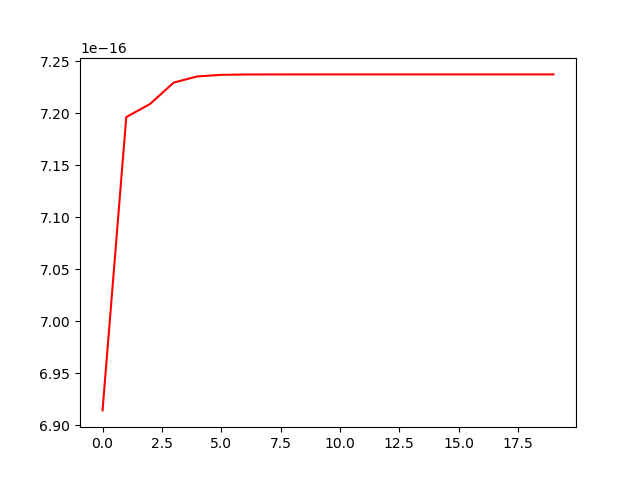
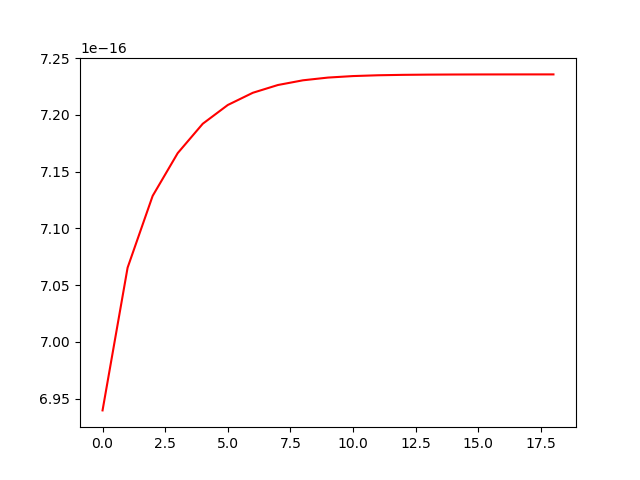
looks ok!

diff --git a/Baumwelchcont.py b/Baumwelchcont.py
@@ -182,9 +182,10 @@ def computelikelihoodbasedonseq(seq,obsmtrx,observations):
     prob = 0
     eps = 2.22044604925e-16
     for t in range(len(seq)):
-        probeps = abs((0.01  * obsmtrx[int(seq[t]),1]))
+        probeps = abs((0.0001  * obsmtrx[int(seq[t]),1]))
         distr = stats.norm(obsmtrx[int(seq[t]),0], obsmtrx[int(seq[t]),1])
         obsprob = distr.cdf(observations[t] + probeps) - distr.cdf(observations[t]- probeps) 
+        print obsprob
         prob += np.log(obsprob) 
     return prob 
 def clipvalues_prevoverflowfw(vector):
@@ -414,7 +415,7 @@ def M_step(gammas,kissies,observations,hard = False):
 
 def Baumwelchcont(observations,numstates,exmodel,hard = False):
     eps = 2.22044605e-16
-    ''' Uses an EM moedel and maximul likelihood estimation to learn the parameteres of an HMM model given the observations 
+    ''' Uses an EM model and maximul likelihood estimation to learn the parameteres of an HMM model given the observations 
     In order to compute log likelihood, probabilitey of seeing the observations given the model at that iteration is used. 
     For convergence purposes, the updating continues till the maximum value of difference between 
     previous iteration likelihood and current iteartion likelihood among all samples is smaller than machine epsilon.
@@ -432,8 +433,8 @@ def Baumwelchcont(observations,numstates,exmodel,hard = False):
         numsamples = 1
 
     # initialization
-    # (pie,transmtrx,obsmtrx )= initializeparameters(observations,numstates,numsamples)
-    (pie,transmtrx,obsmtrx )= initializeparameters_closetoreality(observations,numstates,numsamples,exmodel)
+    (pie,transmtrx,obsmtrx )= initializeparameters(observations,numstates,numsamples)
+    # (pie,transmtrx,obsmtrx )= initializeparameters_closetoreality(observations,numstates,numsamples,exmodel)
     # (pie,transmtrx,obsmtrx ) = clipvalues_prevunderflow_small(pie,transmtrx,obsmtrx)
     noiterations = 100
     conv_threshold = 0.001
@@ -449,18 +450,19 @@ def Baumwelchcont(observations,numstates,exmodel,hard = False):
     while(counter < 20):
         (gammas,kissies,logobservations,likelihood_basedonseq) = E_step(pie,transmtrx,obsmtrx,observations)
         (pie,transmtrx,obsmtrx) = M_step(gammas,kissies,observations,hard)
-        likelihoods.append((logobservations))
-        likelihood_basedonseqs.append(likelihood_basedonseq)
+        if counter != 0:
+            likelihoods.append((logobservations))
+            likelihood_basedonseqs.append(likelihood_basedonseq)
         counter +=1
         diffprobproduct = abs(np.max(prevlogobservation - logobservations))
         prevlogobservation = logobservations
 
     title = "likelihoodtrendforw.png"
-    plt.plot(range(counter),likelihoods,'r')
+    plt.plot(range(counter-1),likelihoods,'r')
     plt.savefig(title)
     plt.close()
     title = "likelihoodtrendseq.png"
-    plt.plot(range(counter),likelihood_basedonseqs,'b')
+    plt.plot(range(counter-1),likelihood_basedonseqs,'b')
     plt.savefig(title)
     plt.close()
     print "did this much iterations"
